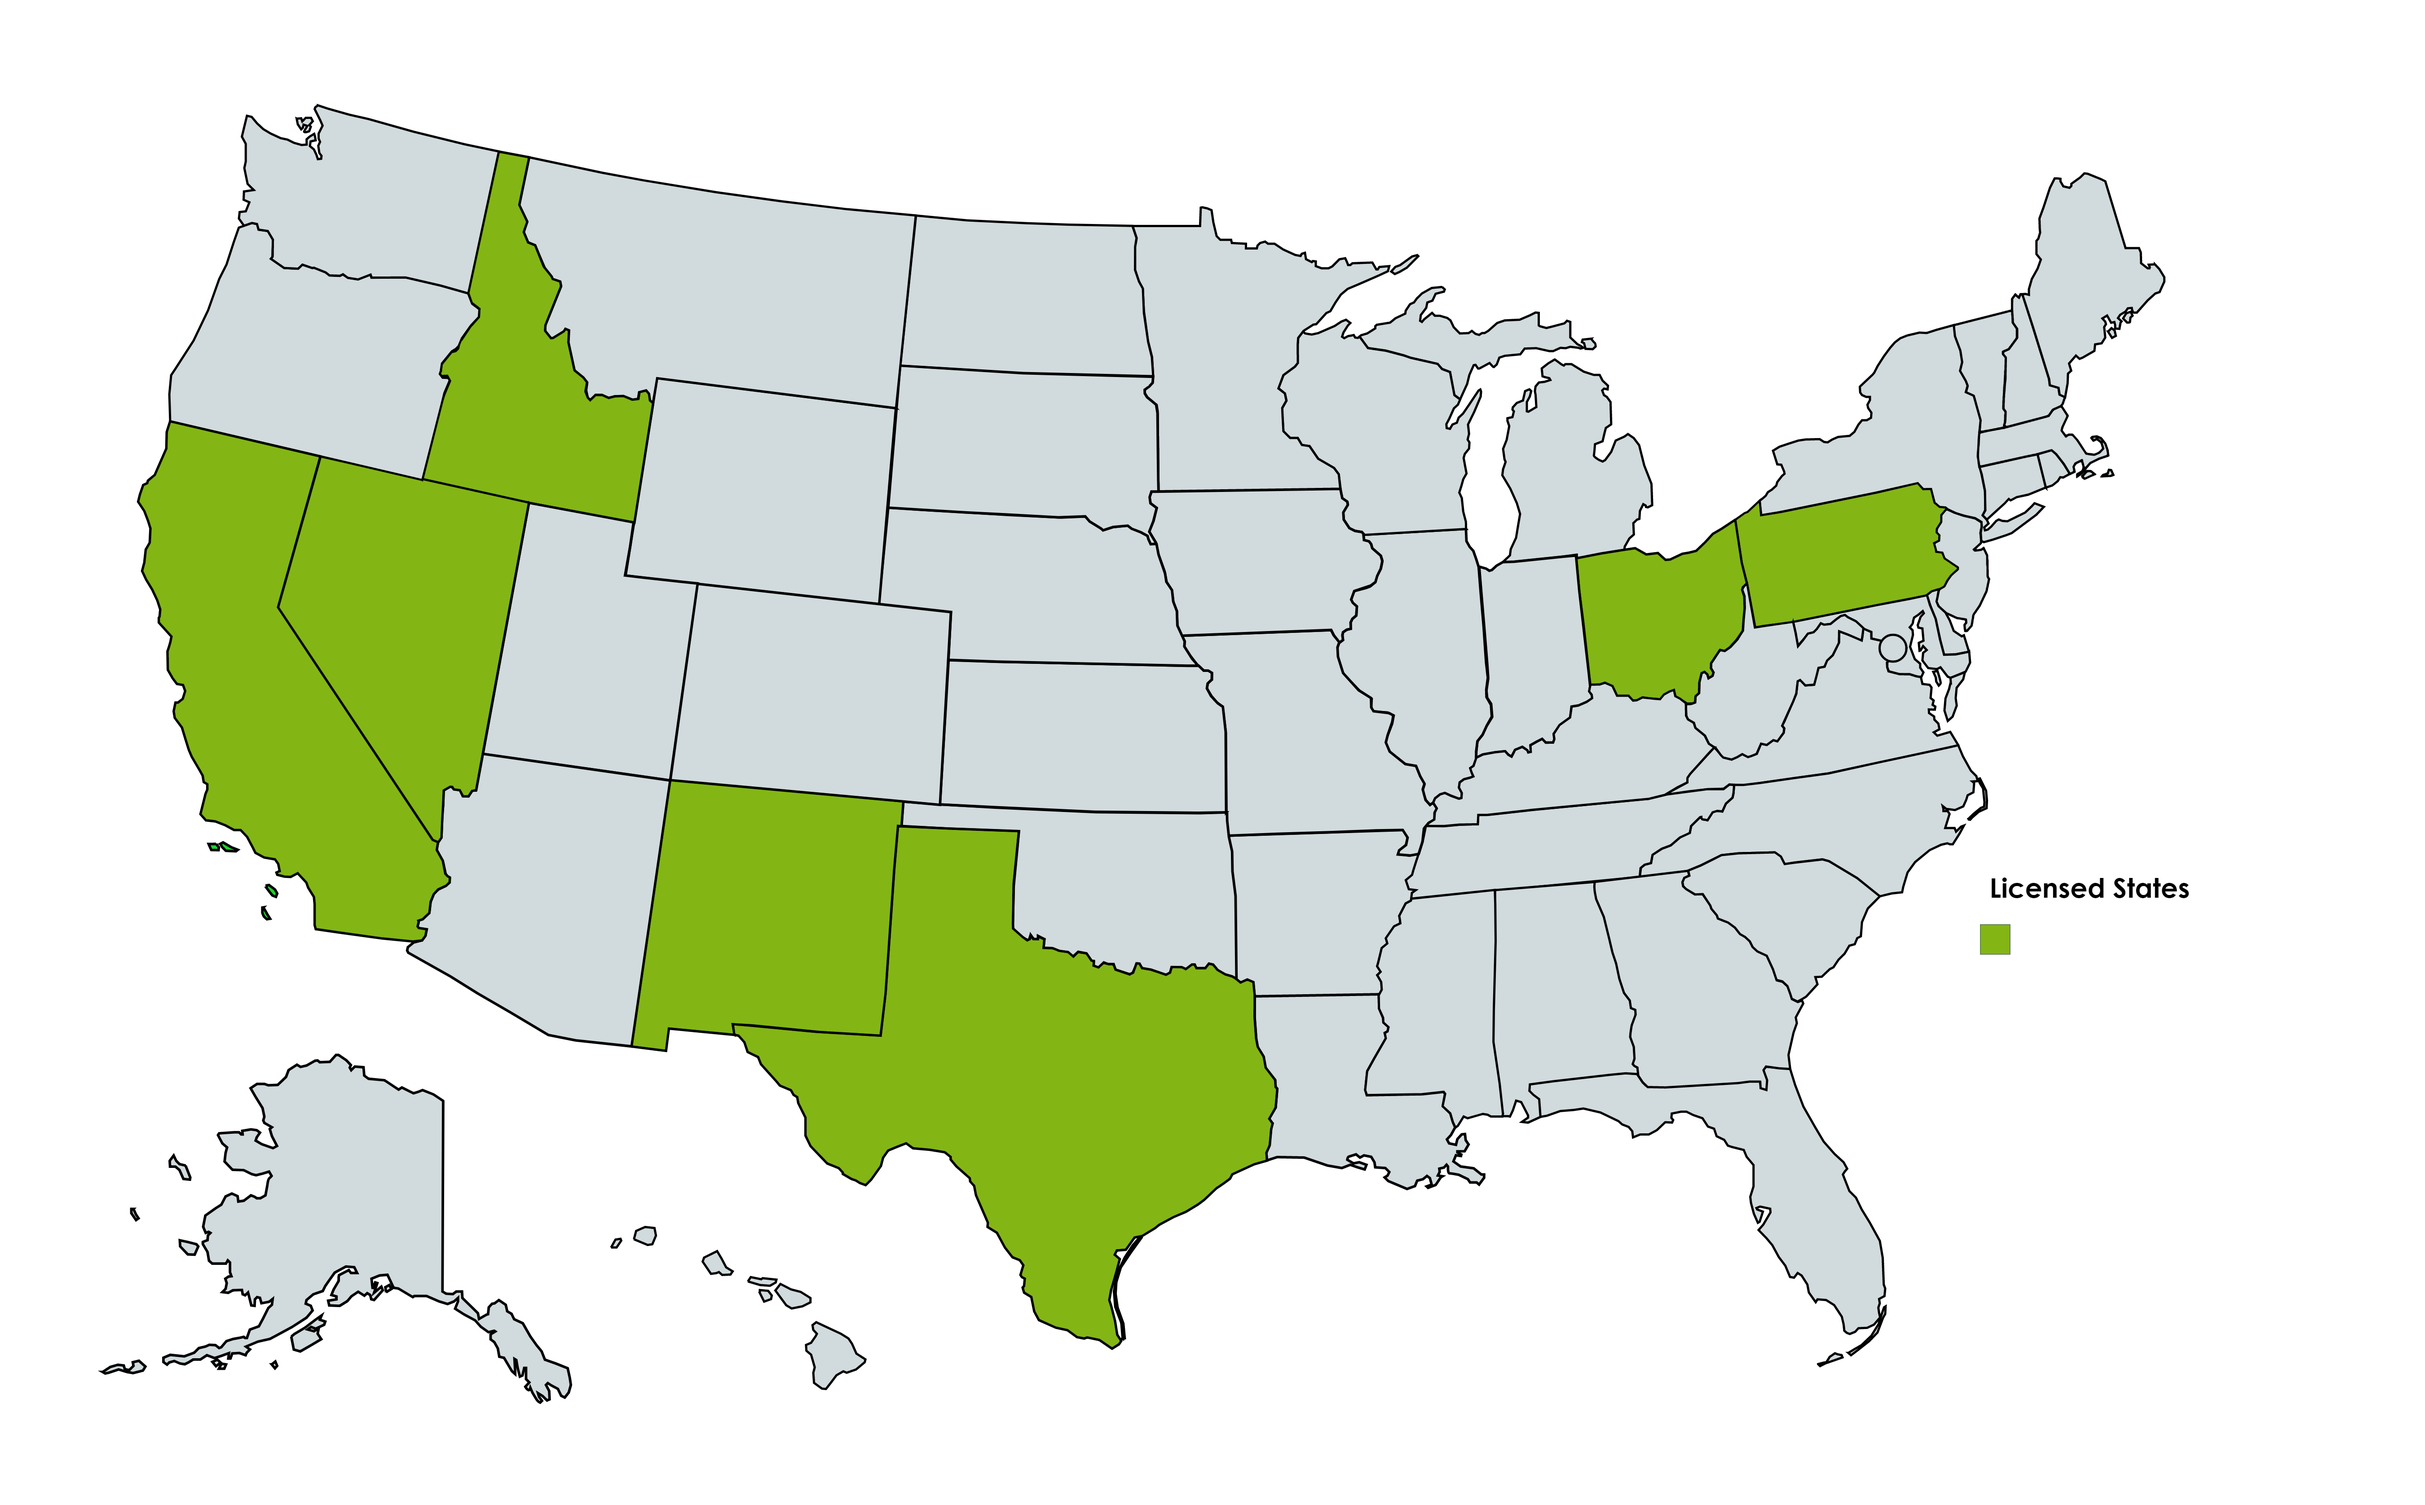
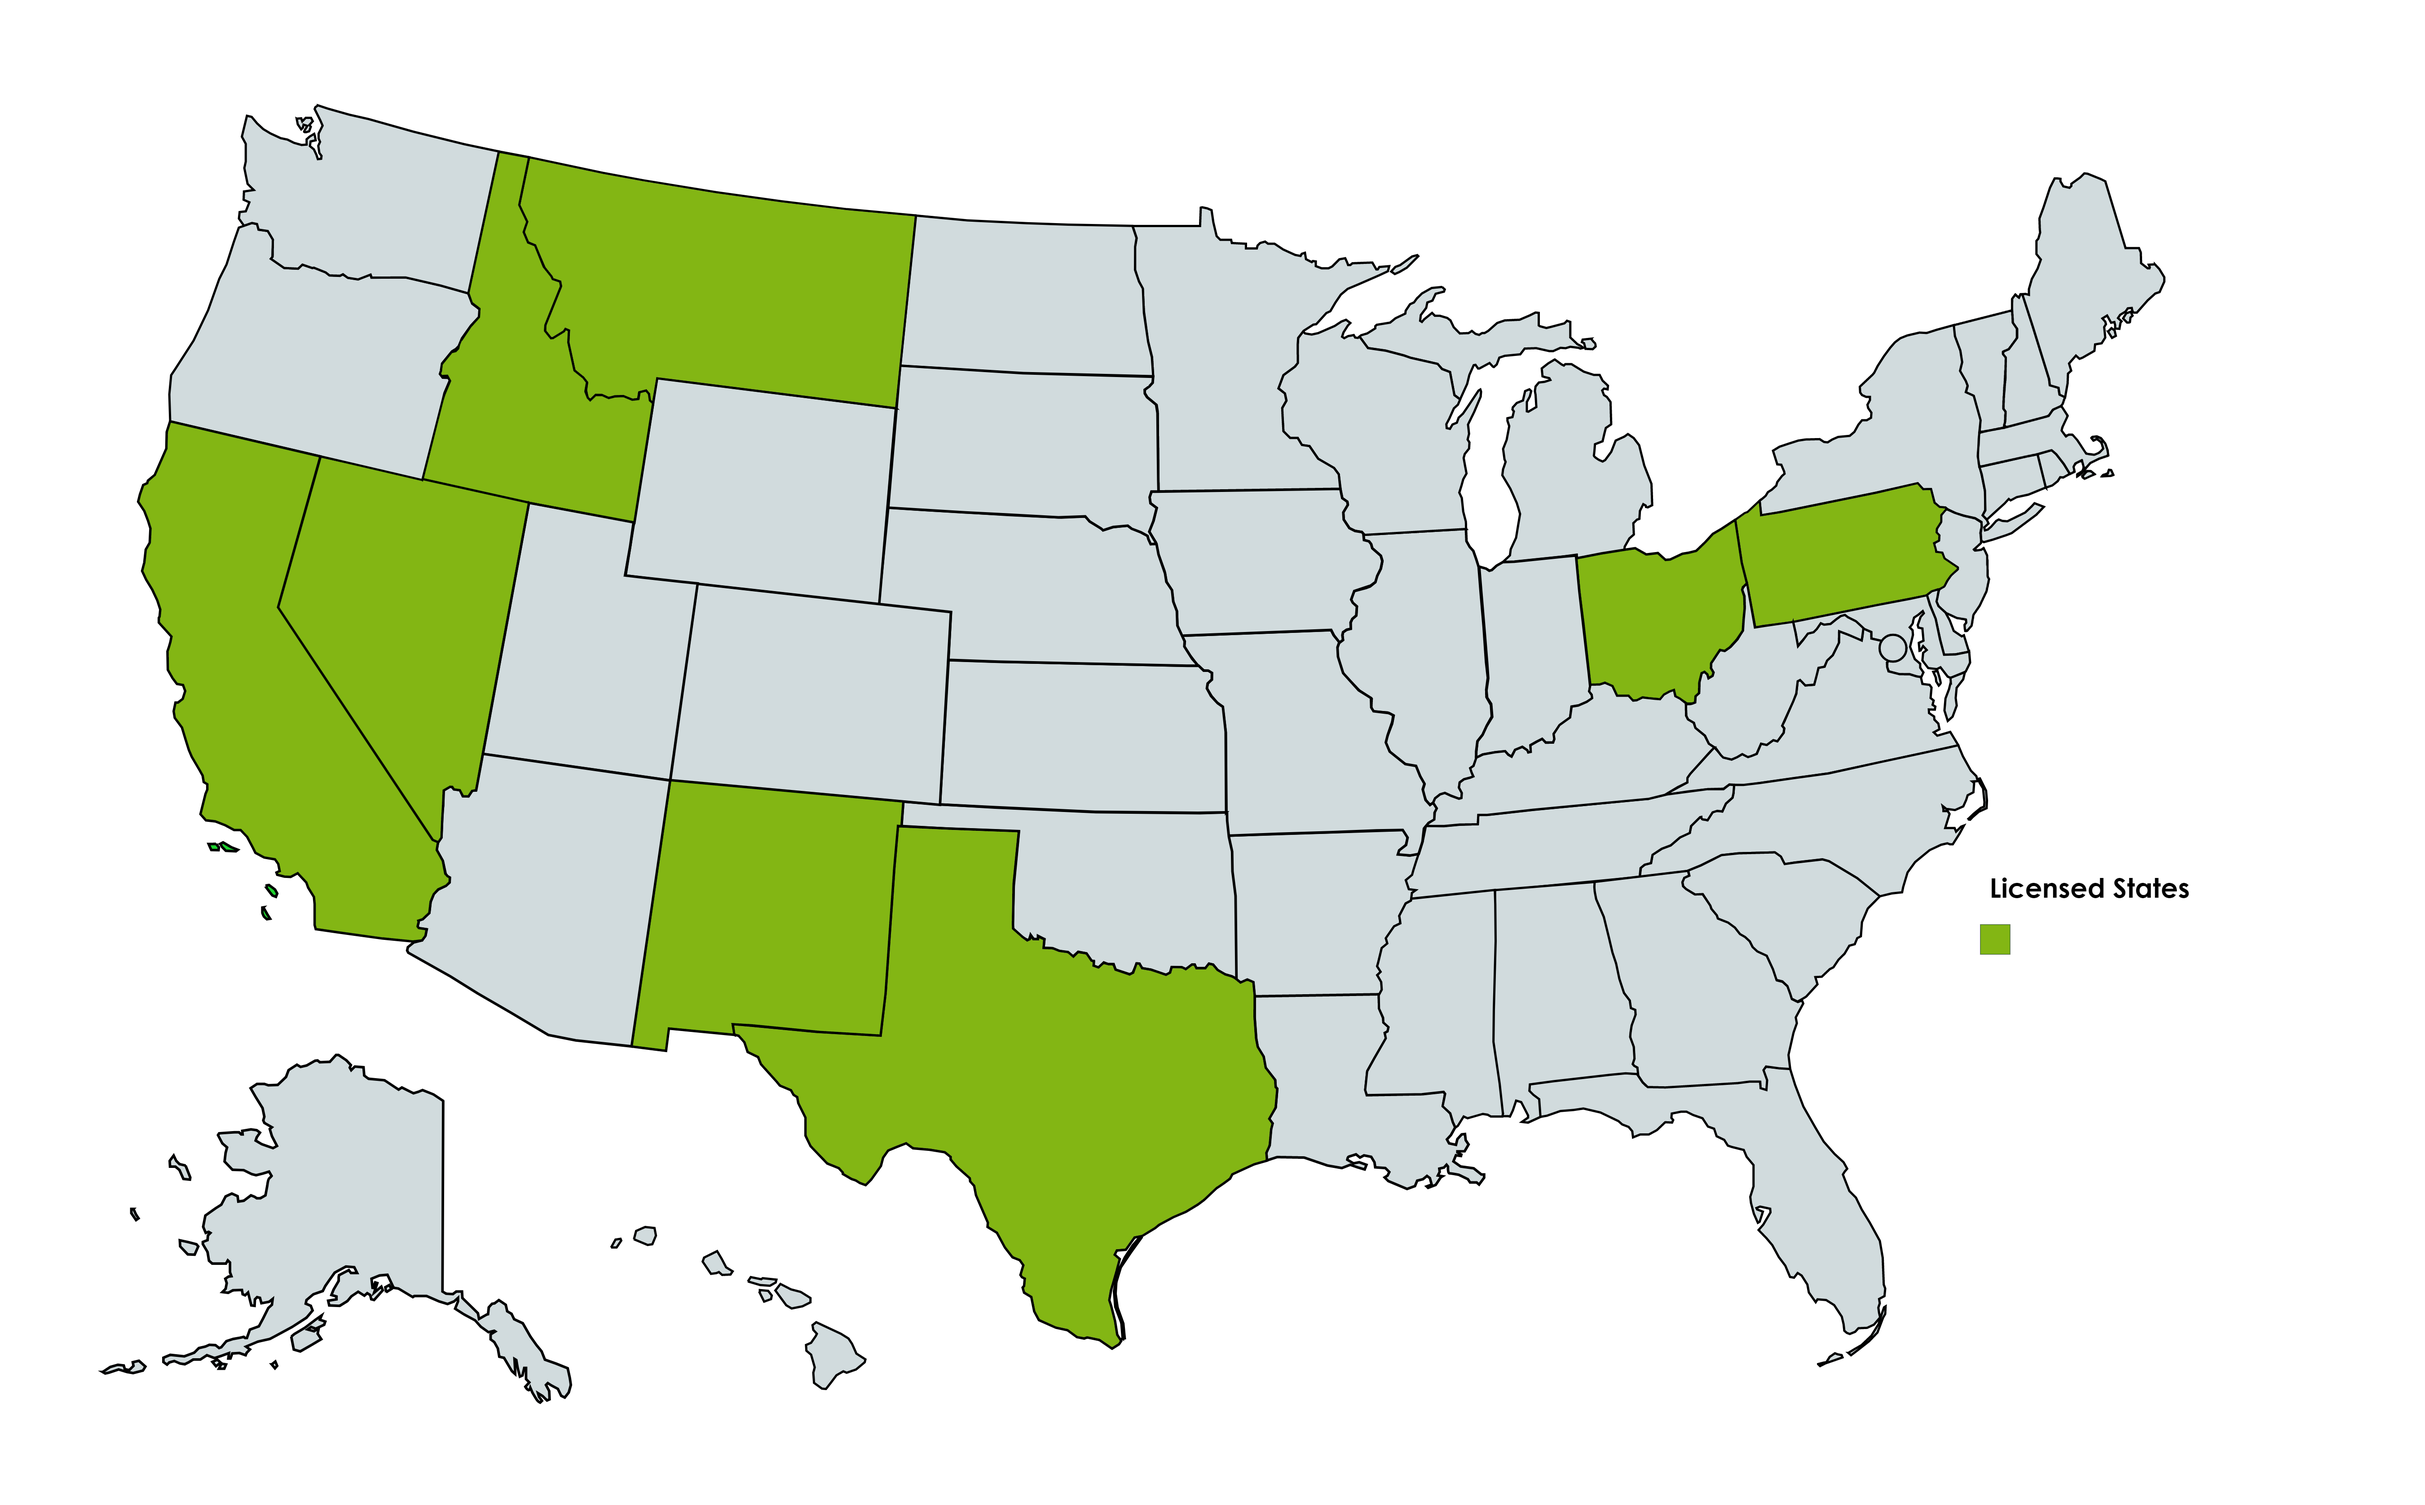
Add Montan

Changed region(s): [[0.2178, 0.0931, 0.3733, 0.2792]]

diff --git a/company-info.html b/company-info.html
@@ -122,6 +122,7 @@
                                             <ul class="sub-menu">
                                                 <li><a href="licensing-texas.html">Texas</a></li>
                                                 <li><a href="licensing.html">Pennsylvania</a></li>
+                                                <li><a href="licensing.html">Montana</a></li>
                                                 <li><a href="licensing.html">Ohio</a></li>
                                                 <li><a href="licensing.html">New Mexico</a></li>
                                                 <li><a href="licensing.html">Nevada</a></li>
@@ -176,7 +177,7 @@
                                 <h4>Welcome To New Heights Lending</h4>
                                 <h3>Bringing the expectations of lending to new heights!</h3>
                             </div>
-                            <p class="about-desc">New Heights Lending LLC is a Nevada owned and operated mortgage broker. With over 30 years of experience in the mortgage lending industry, New Heights Lending has the expertise needed to guide our borrowers with their residential financing needs. The company is currently licensed in California, Idaho, Nevada, New Mexico, Ohio, Pennsylvania, and Texas.</p>
+                            <p class="about-desc">New Heights Lending LLC is a Nevada owned and operated mortgage broker. With over 30 years of experience in the mortgage lending industry, New Heights Lending has the expertise needed to guide our borrowers with their residential financing needs. The company is currently licensed in California, Idaho, Montana, Nevada, New Mexico, Ohio, Pennsylvania, and Texas.</p>
                             <p class="about-desc">New Heights Lending LLC is an equal opportunity lender. Company NMLS for NV is 1160570, Company NMLS for OH is 1676109 and Company NMLS for TX is 1925458. New Heights Lending LLC is a member of the Las Vegas Metro Chamber of Commerce, the Better Business Bureau (the BBB), the National Federation of Independent Businesses (NFIB) and the Greater Las Vegas Association of Realtors (GLVAR).</p>
                             <p class="about-desc">Established in 2014, New Height's core team has worked together since 2005. The Company's focus is to embrace efficient workflow coupled with compliance minded, knowledgeable sales personnel to promote sustainable home ownership. As important as it is in helping our clients get into their homes or refinancing an existing loan, it is equally important to us that they have a full understanding of the process and feeling confident in their choices.</p>
                             <p class="about-desc">New Heights Lending is bringing the expectations of lending to new heights… and you can rest assured that our motto is not just a tagline, it’s a promise!</p>

diff --git a/licensing.html b/licensing.html
@@ -123,6 +123,7 @@
                                     <ul class="sub-menu">
                                         <li><a href="licensing-texas.html">Texas</a></li>
                                         <li><a href="licensing.html">Pennsylvania</a></li>
+                                        <li><a href="licensing.html">Montana</a></li>
                                         <li><a href="licensing.html">Ohio</a></li>
                                         <li><a href="licensing.html">New Mexico</a></li>
                                         <li><a href="licensing.html">Nevada</a></li>
@@ -184,13 +185,14 @@
                                         <h4>Licensing</h4>
                                         <p>
                                             <ul>
-                                                <li><a href="licensing-texas.html">TX Mortgage Company License 1925458</a></li>
-                                                <li><a href="licensing.html">PA Mortgage Broker License 90455</a></li>
-                                                <li><a href="licensing.html">OH Mortgage Broker Act of Certificate of Registration MB.804293.000</a></li>
+                                                <li><a href="licensing.html">CA Finance Lender Law License 60DBO57764</a></li>
+                                                <li><a href="licensing.html">ID Mortgage Broker/Lender License MBL-8306</a></li>
+                                                <li><a href="licensing.html">MT Mortgage Broker License 1160570</a></li>
                                                 <li><a href="licensing.html">NM Mortgage Loan Company License 1160570</a></li>
                                                 <li><a href="licensing.html">NV Mortgage Broker License 4097</a></li>
-                                                <li><a href="licensing.html">ID Mortgage Broker/Lender License MBL-8306</a></li>
-                                                <li><a href="licensing.html">CA Finance Lender Law License 60DBO57764</a></li>
+                                                <li><a href="licensing.html">OH Mortgage Broker Act of Certificate of Registration MB.804293.000</a></li>
+                                                <li><a href="licensing.html">PA Mortgage Broker License 90455</a></li>
+                                                <li><a href="licensing-texas.html">TX Mortgage Company License 1925458</a></li>
                                             </ul>
                                         </p>
                                         <p>

diff --git a/index.html b/index.html
@@ -131,6 +131,7 @@
                                         <ul class="sub-menu">
                                             <li><a href="licensing-texas.html">Texas</a></li>
                                             <li><a href="licensing.html">Pennsylvania</a></li>
+                                            <li><a href="licensing.html">Montana</a></li>
                                             <li><a href="licensing.html">Ohio</a></li>
                                             <li><a href="licensing.html">New Mexico</a></li>
                                             <li><a href="licensing.html">Nevada</a></li>
@@ -273,12 +274,13 @@
                                 <h4>License</h4>
                                 <br 10>
                                 <ul>
-                                    <li>NV Branch NMLS ID 1160570</li>
-                                    <li>OH Branch NMLS ID 1676109</li>
                                     <li>CA Finance Lender Law License 60DBO57764</li>
                                     <li>ID Mortgage Broker/Lender License MBL-8306</li>
+                                    <li>MT Mortgage Broker License 1160570</li>
                                     <li>NV Mortgage Broker License 4097</li>
                                     <li>NM Mortgage Loan Company License 1160570</li>
+                                    <li>NV Branch NMLS ID 1160570</li>
+                                    <li>OH Branch NMLS ID 1676109</li>
                                     <li>OH Mortgage Broker Act of Certificate of Registration MB.804293.000</li>
                                     <li>PA Mortgage Broker License 90455</li>
                                     <li>TX Mortgage Company License 1925458</li>

diff --git a/what-we-offer.html b/what-we-offer.html
@@ -125,6 +125,7 @@
                                                 <ul class="sub-menu">
                                                     <li><a href="licensing-texas.html">Texas</a></li>
                                                     <li><a href="licensing.html">Pennsylvania</a></li>
+                                                    <li><a href="licensing.html">Montana</a></li>
                                                     <li><a href="licensing.html">Ohio</a></li>
                                                     <li><a href="licensing.html">New Mexico</a></li>
                                                     <li><a href="licensing.html">Nevada</a></li>

diff --git a/testimonial.html b/testimonial.html
@@ -122,6 +122,7 @@
                                             <ul class="sub-menu">
                                                 <li><a href="licensing-texas.html">Texas</a></li>
                                                 <li><a href="licensing.html">Pennsylvania</a></li>
+                                                <li><a href="licensing.html">Montana</a></li>
                                                 <li><a href="licensing.html">Ohio</a></li>
                                                 <li><a href="licensing.html">New Mexico</a></li>
                                                 <li><a href="licensing.html">Nevada</a></li>

diff --git a/contact.html b/contact.html
@@ -128,6 +128,7 @@
                                         <ul class="sub-menu">
                                             <li><a href="licensing-texas.html">Texas</a></li>
                                             <li><a href="licensing.html">Pennsylvania</a></li>
+                                            <li><a href="licensing.html">Montana</a></li>
                                             <li><a href="licensing.html">Ohio</a></li>
                                             <li><a href="licensing.html">New Mexico</a></li>
                                             <li><a href="licensing.html">Nevada</a></li>

diff --git a/loan-process.html b/loan-process.html
@@ -123,6 +123,7 @@
                                         <ul class="sub-menu">
                                             <li><a href="licensing-texas.html">Texas</a></li>
                                             <li><a href="licensing.html">Pennsylvania</a></li>
+                                            <li><a href="licensing.html">Montana</a></li>
                                             <li><a href="licensing.html">Ohio</a></li>
                                             <li><a href="licensing.html">New Mexico</a></li>
                                             <li><a href="licensing.html">Nevada</a></li>

diff --git a/meet-the-team.html b/meet-the-team.html
@@ -127,6 +127,7 @@
                                         <ul class="sub-menu">
                                             <li><a href="licensing-texas.html">Texas</a></li>
                                             <li><a href="licensing.html">Pennsylvania</a></li>
+                                            <li><a href="licensing.html">Montana</a></li>
                                             <li><a href="licensing.html">Ohio</a></li>
                                             <li><a href="licensing.html">New Mexico</a></li>
                                             <li><a href="licensing.html">Nevada</a></li>

diff --git a/licensing-california.html b/licensing-california.html
@@ -123,6 +123,7 @@
                                     <ul class="sub-menu">
                                         <li><a href="licensing-texas.html">Texas</a></li>
                                         <li><a href="licensing.html">Pennsylvania</a></li>
+                                        <li><a href="licensing.html">Montana</a></li>
                                         <li><a href="licensing.html">Ohio</a></li>
                                         <li><a href="licensing.html">New Mexico</a></li>
                                         <li><a href="licensing.html">Nevada</a></li>

diff --git a/licensing-texas.html b/licensing-texas.html
@@ -123,6 +123,7 @@
                                     <ul class="sub-menu">
                                         <li><a href="licensing-texas.html">Texas</a></li>
                                         <li><a href="licensing.html">Pennsylvania</a></li>
+                                        <li><a href="licensing.html">Montana</a></li>
                                         <li><a href="licensing.html">Ohio</a></li>
                                         <li><a href="licensing.html">New Mexico</a></li>
                                         <li><a href="licensing.html">Nevada</a></li>
